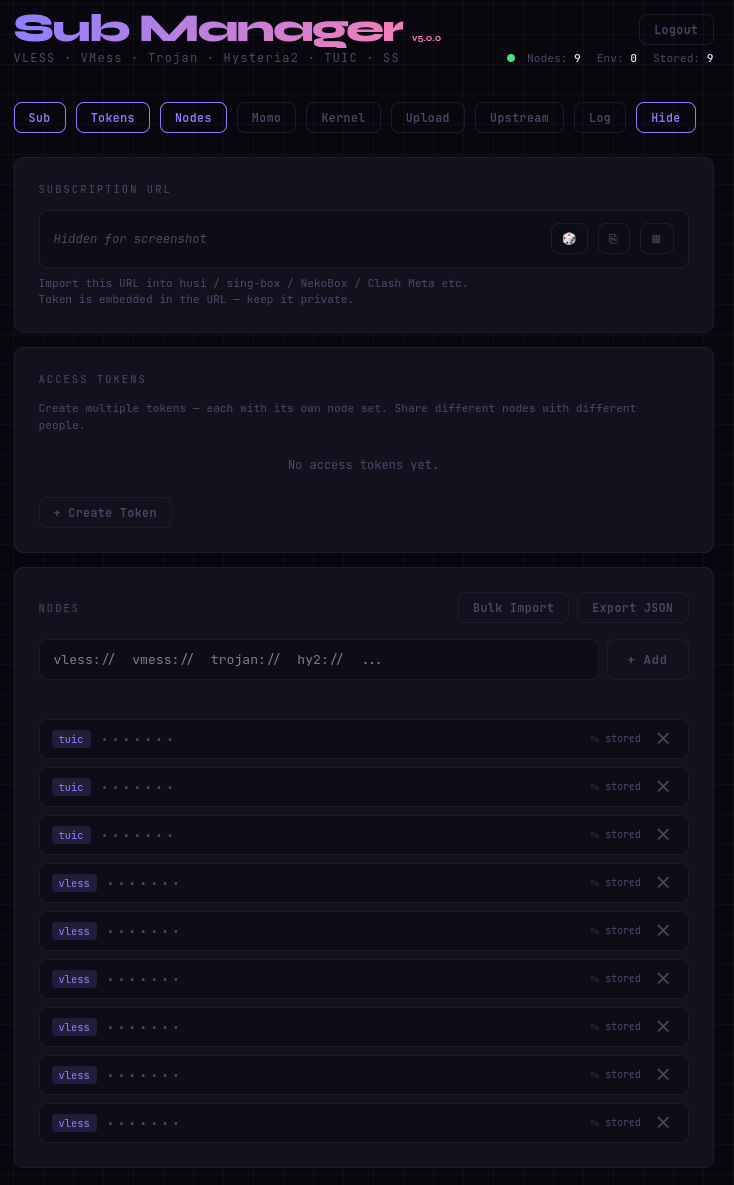
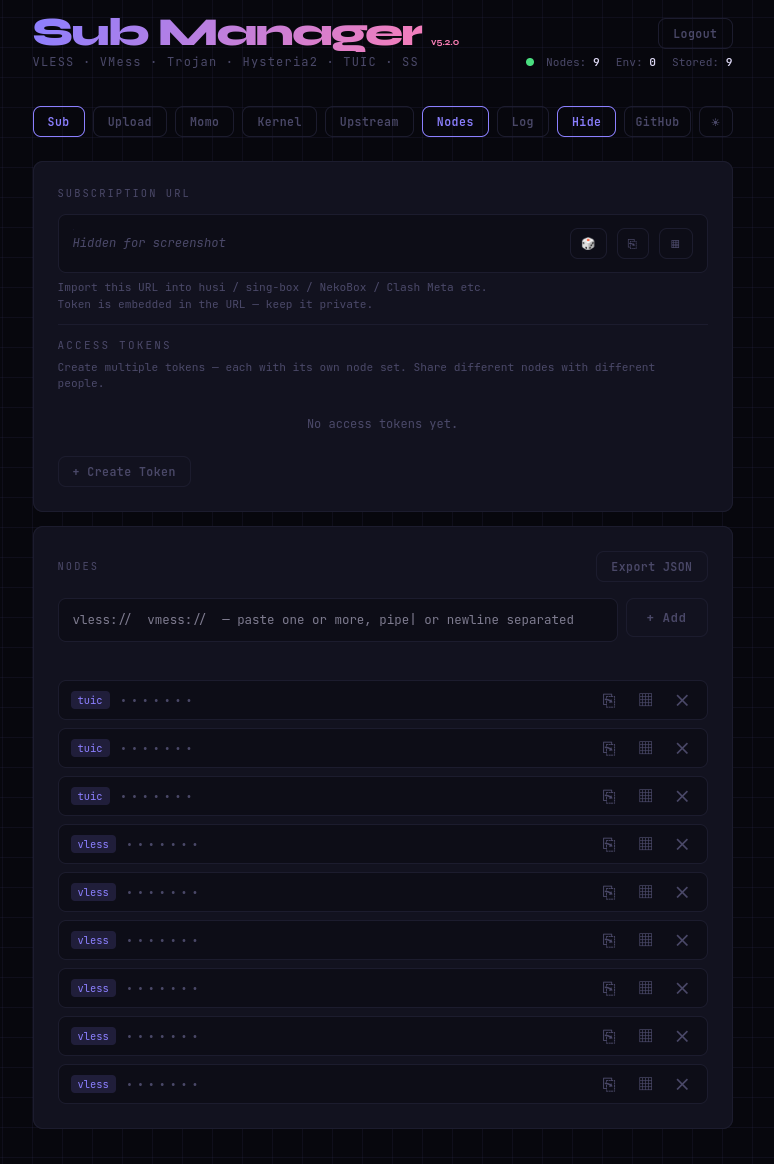
fix(core): use portable timing-safe comparison
crypto.subtle.timingSafeEqual is unavailable in Node.js;
use XOR-based constant-time comparison instead

diff --git a/src/core.js b/src/core.js
@@ -68,7 +68,9 @@ function timingSafeEqual(a, b) {
 		bufB[i / 2] = parseInt(b.slice(i, i + 2), 16);
 	}
 	if (bufA.length !== bufB.length) return false;
-	return crypto.subtle.timingSafeEqual(bufA, bufB);
+	let diff = 0;
+	for (let i = 0; i < bufA.length; i++) diff |= bufA[i] ^ bufB[i];
+	return diff === 0;
 }
 
 function toBase64(str) {
